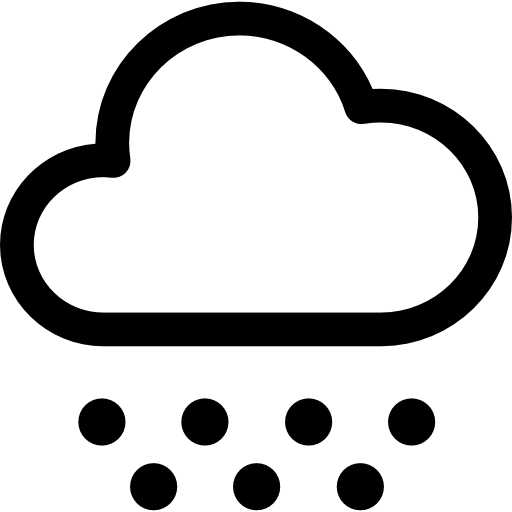
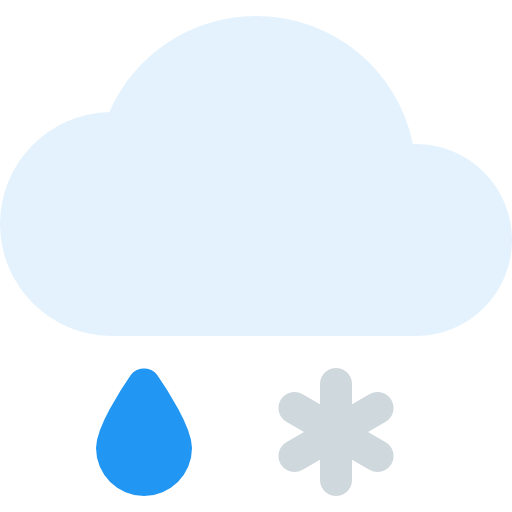
images updated

diff --git a/app/src/components/Img.js b/app/src/components/Img.js
@@ -9,44 +9,41 @@ export const Img = props => {
   switch (icon) {
     case 'clear-day':
       return (
-        <Image source={R.images.sunny_day} style={{ width: w, height: h }} />
+        <Image source={R.images.clear_day} style={{ width: w, height: h }} />
       );
     case 'clear-night':
-      return <Image source={R.images.night} style={{ width: w, height: h }} />;
+      return (
+        <Image source={R.images.clear_night} style={{ width: w, height: h }} />
+      );
     case 'rain':
-      return (
-        <Image source={R.images.rainy_day} style={{ width: w, height: h }} />
-      );
+      return <Image source={R.images.rain} style={{ width: w, height: h }} />;
     case 'snow':
-      return (
-        <Image source={R.images.snow_cloud} style={{ width: w, height: h }} />
-      );
+      return <Image source={R.images.rain} style={{ width: w, height: h }} />;
     case 'sleet':
       return <Image source={R.images.sleet} style={{ width: w, height: h }} />;
     case 'wind':
-      return (
-        <Image source={R.images.windy_day} style={{ width: w, height: h }} />
-      );
+      return <Image source={R.images.wind} style={{ width: w, height: h }} />;
     case 'fog':
-      return <Image source={R.images.foggy} style={{ width: w, height: h }} />;
+      return <Image source={R.images.fog} style={{ width: w, height: h }} />;
     case 'cloudy':
-      return (
-        <Image source={R.images.cloudy_day} style={{ width: w, height: h }} />
-      );
+      return <Image source={R.images.cloudy} style={{ width: w, height: h }} />;
     case 'partly-cloudy-day':
       return (
         <Image
-          source={R.images.partialy_cloudy}
+          source={R.images.partly_cloudy_day}
           style={{ width: w, height: h }}
         />
       );
     case 'partly-cloudy-night':
       return (
-        <Image source={R.images.dark_night} style={{ width: w, height: h }} />
+        <Image
+          source={R.images.partly_cloudy_night}
+          style={{ width: w, height: h }}
+        />
       );
     default:
       return (
-        <Image source={R.images.sun_eclipse} style={{ width: w, height: h }} />
+        <Image source={R.images.clear_day} style={{ width: w, height: h }} />
       );
   }
 };

diff --git a/app/res/images.js b/app/res/images.js
@@ -1,35 +1,15 @@
 export const images = {
-  blizzard: require('./images/blizzard.png'),
-  breeze: require('./images/breeze.png'),
-  cloudy_day: require('./images/cloudy-day.png'),
-  cold: require('./images/cold.png'),
-  dark_night: require('./images/dark-night.png'),
-  drizzle: require('./images/drizzle.png'),
-  drought: require('./images/drought.png'),
-  flood: require('./images/flood.png'),
-  foggy: require('./images/foggy.png'),
-  hail_storm: require('./images/hail-storm.png'),
-  hail: require('./images/hail.png'),
-  hot_weather: require('./images/hot-weather.png'),
-  hurricane: require('./images/hurricane.png'),
-  lighting: require('./images/lighting.png'),
-  mist: require('./images/mist.png'),
-  moon_eclipse: require('./images/moon-eclipse.png'),
-  night: require('./images/night.png'),
-  overcast_day: require('./images/overcast-day.png'),
-  partialy_cloudy: require('./images/partialy-cloudy.png'),
-  pour_rain: require('./images/pour-rain.png'),
-  puddles: require('./images/puddles.png'),
-  rainbow: require('./images/rainbow.png'),
-  rainy_day: require('./images/rainy-day.png'),
-  sleet: require('./images/sleet.png'),
-  smog: require('./images/smog.png'),
-  snow_cloud: require('./images/snow-cloud.png'),
-  sun_eclipse: require('./images/sun-eclipse.png'),
-  sunny_day: require('./images/sunny-day.png'),
-  temperature: require('./images/temperature.png'),
-  windy_day: require('./images/windy-day.png'),
-  time_machine: require('./images/time-machine.png'),
+  clear_day: require('./images/clear-day.png'),
+  clear_night: require('./images/clear-night.png'),
+  cloudy: require('./images/cloudy.png'),
   detect_location: require('./images/detect-location.png'),
-  sun: require('./images/sun.png')
+  fog: require('./images/fog.png'),
+  partly_cloudy_day: require('./images/partly-cloudy-day.png'),
+  partly_cloudy_night: require('./images/partly-cloudy-night.png'),
+  rain: require('./images/rain.png'),
+  sleet: require('./images/sleet.png'),
+  snow: require('./images/snow.png'),
+  splash: require('./images/splash.png'),
+  time_machine: require('./images/time-machine.png'),
+  wind: require('./images/wind.png')
 };

diff --git a/app/src/scenes/SplashScreen.js b/app/src/scenes/SplashScreen.js
@@ -17,7 +17,7 @@ const SplashScreen = ({ navigation, auth }) => {
   return (
     <RootView>
       <View style={{ flex: 1, alignItems: 'center', justifyContent: 'center' }}>
-        <Image source={R.images.sun} style={{ marginVertical: 20 }}></Image>
+        <Image source={R.images.splash} style={{ marginVertical: 20 }}></Image>
         <CText title={'weather'} fontsize={40} />
       </View>
     </RootView>
